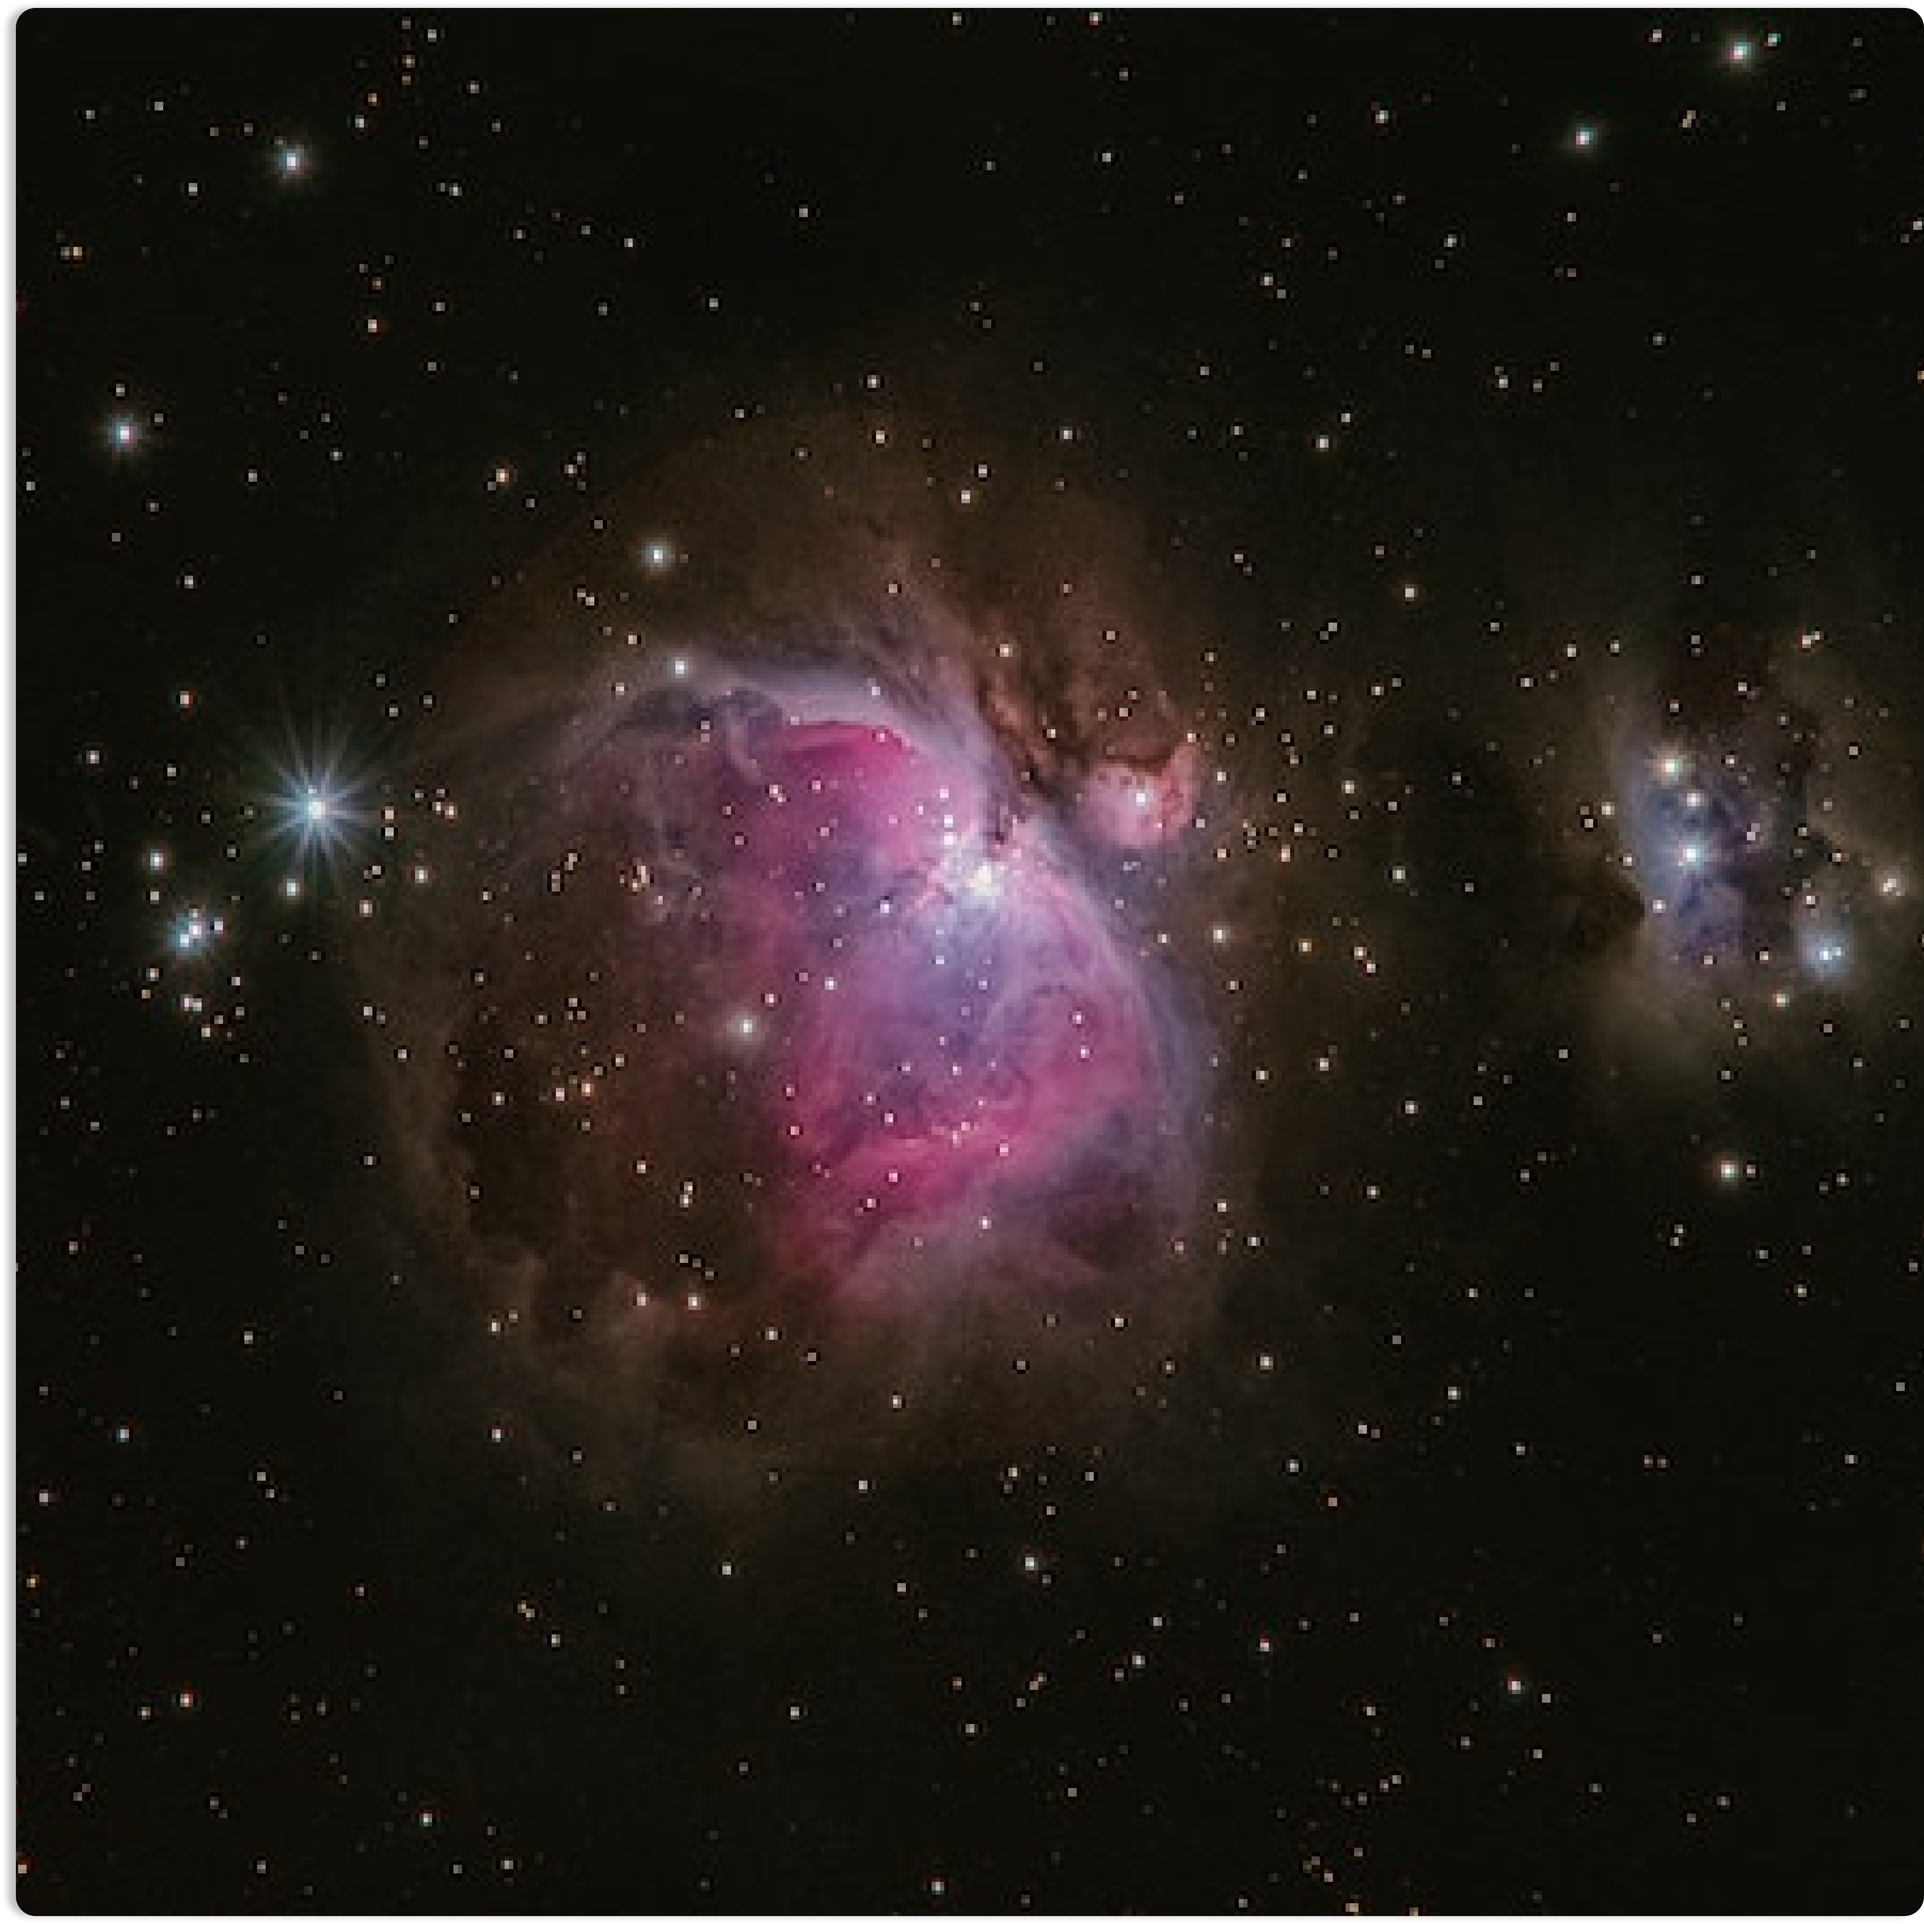
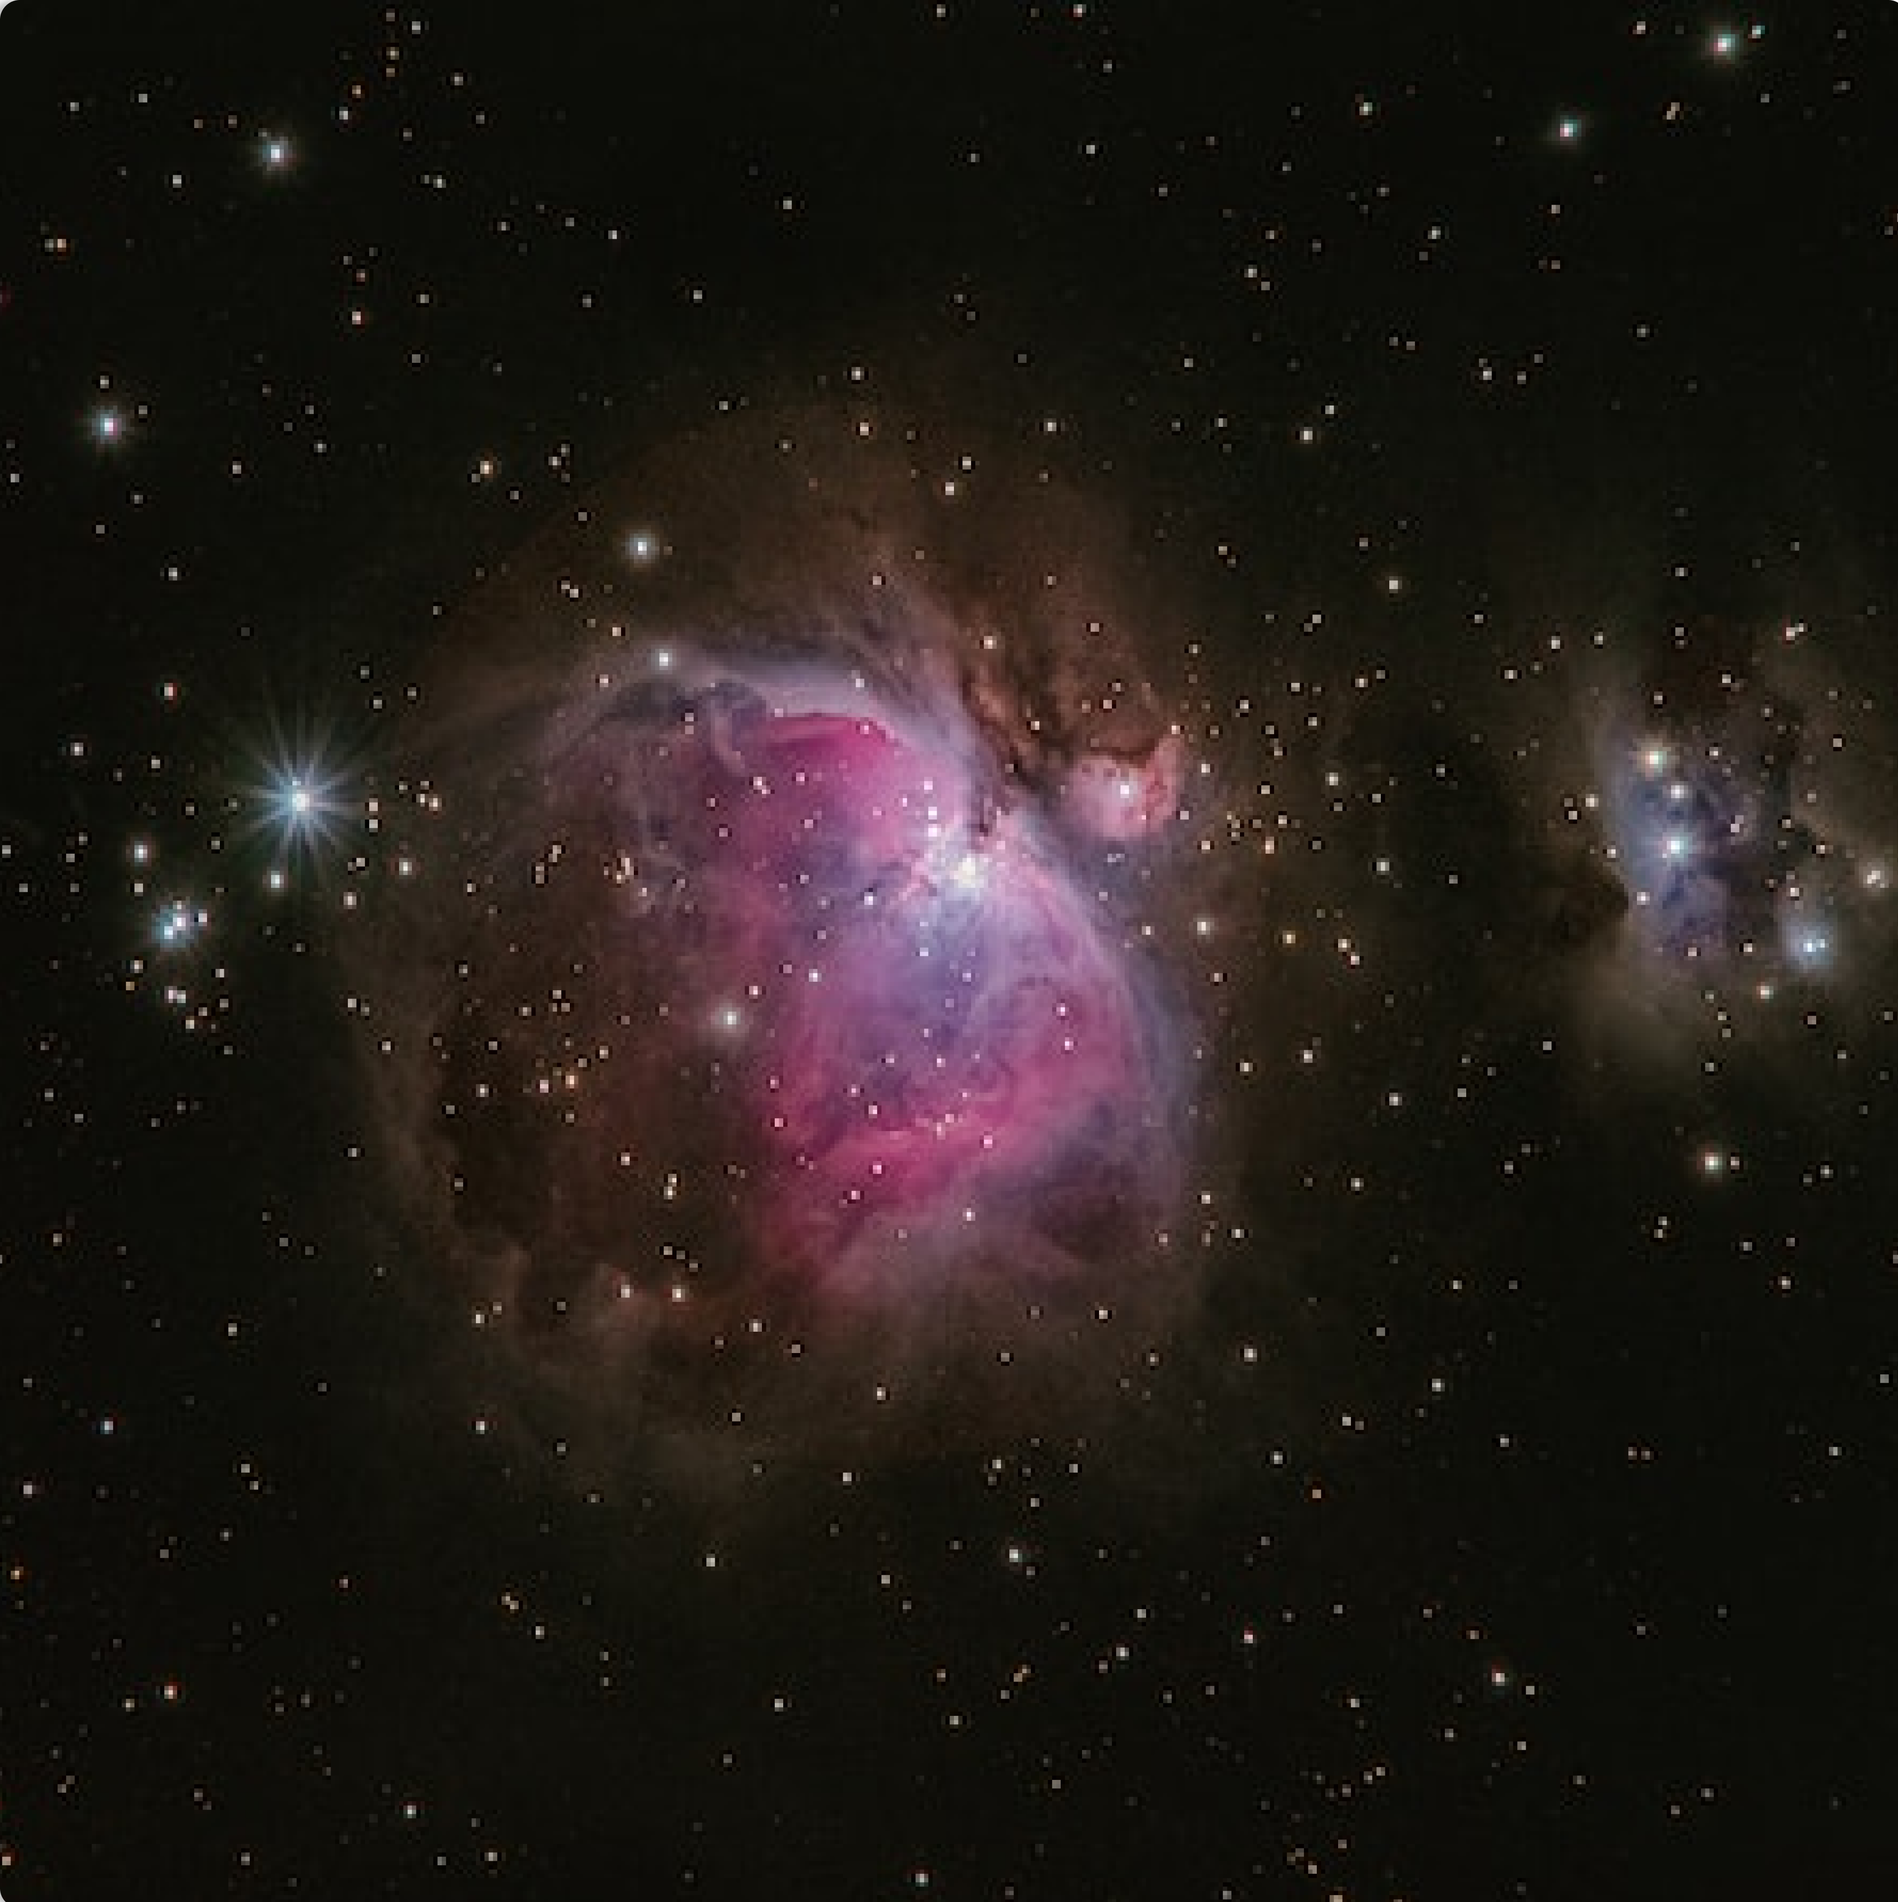
compressed png images

diff --git a/src/pages/Home/data.js b/src/pages/Home/data.js
@@ -9,7 +9,7 @@ export const cardsData = [
     },
     {
         id: `${Date.now() - Math.random()}`,
-        image: `${process.env.PUBLIC_URL}/assets/4xbrown-nebula-edit.png`,
+        image: `${process.env.PUBLIC_URL}/assets/4xbrown-nebula.png`,
         title: 'Space is not just stars and planets',
         caption: 'It is a majestic journey to',
         text: 'Lorem ipsum dolor sit amet, consectetur adipiscing elit. Ut eget ullamcorper mi. Nam enim odio, laoreet in porta vitae, porttitor in leo. Aenean euismod enim ac semper vehicula. Mauris aliquet vestibulum lectus, et venenatis odio molestie in. Quisque sollicitudin ligula vitae quam porta, ac ornare neque dignissim. Integer massa sem, pulvinar luctus orci sit amet, interdum congue lacus. Aenean eget blandit arcu. Maecenas non bibendum nibh. Phasellus facilisis ipsum id ipsum consequat sollicitudin. Nulla ac faucibus ex.',
@@ -37,7 +37,7 @@ export const cardsData = [
     },
     {
         id: `${Date.now() - Math.random()}`,
-        image: `${process.env.PUBLIC_URL}/assets/4xbrown-nebula-edit.png`,
+        image: `${process.env.PUBLIC_URL}/assets/4xbrown-nebula.png`,
         title: 'Space is not just stars and planets',
         caption: 'It is a majestic journey to',
         text: 'Lorem ipsum dolor sit amet, consectetur adipiscing elit. Ut eget ullamcorper mi. Nam enim odio, laoreet in porta vitae, porttitor in leo. Aenean euismod enim ac semper vehicula. Mauris aliquet vestibulum lectus, et venenatis odio molestie in. Quisque sollicitudin ligula vitae quam porta, ac ornare neque dignissim. Integer massa sem, pulvinar luctus orci sit amet, interdum congue lacus. Aenean eget blandit arcu. Maecenas non bibendum nibh. Phasellus facilisis ipsum id ipsum consequat sollicitudin. Nulla ac faucibus ex.',
@@ -65,7 +65,7 @@ export const cardsData = [
     },
     {
         id: `${Date.now() - Math.random()}`,
-        image: `${process.env.PUBLIC_URL}/assets/4xbrown-nebula-edit.png`,
+        image: `${process.env.PUBLIC_URL}/assets/4xbrown-nebula.png`,
         title: 'Space is not just stars and planets',
         caption: 'It is a majestic journey to',
         text: 'Lorem ipsum dolor sit amet, consectetur adipiscing elit. Ut eget ullamcorper mi. Nam enim odio, laoreet in porta vitae, porttitor in leo. Aenean euismod enim ac semper vehicula. Mauris aliquet vestibulum lectus, et venenatis odio molestie in. Quisque sollicitudin ligula vitae quam porta, ac ornare neque dignissim. Integer massa sem, pulvinar luctus orci sit amet, interdum congue lacus. Aenean eget blandit arcu. Maecenas non bibendum nibh. Phasellus facilisis ipsum id ipsum consequat sollicitudin. Nulla ac faucibus ex.',
